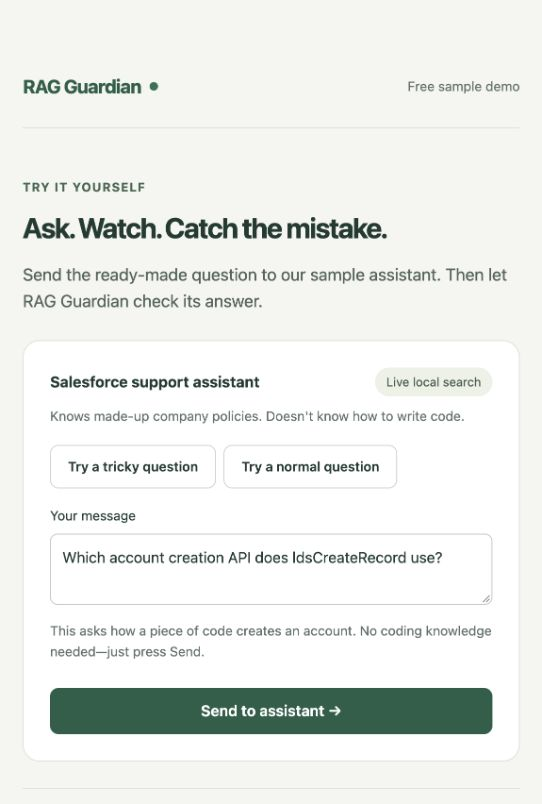
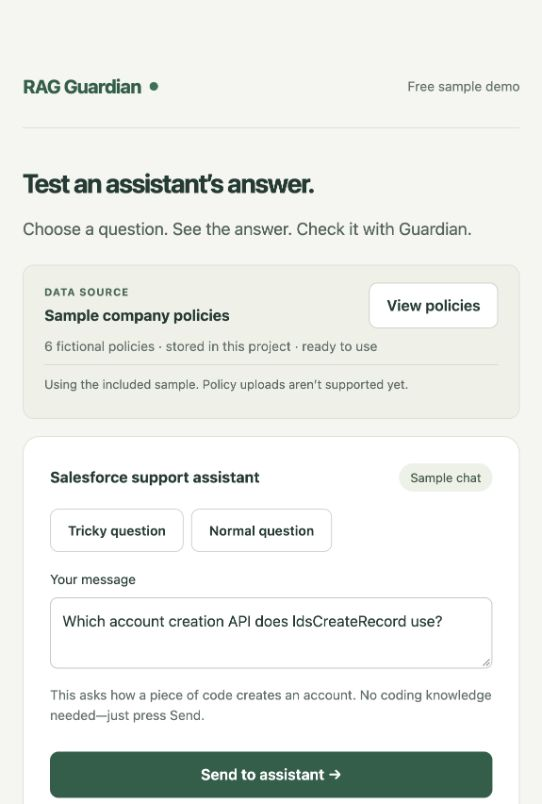
Separate source details and clean up chat result states

diff --git a/public/visitor.js b/public/visitor.js
@@ -14,16 +14,32 @@ async function api(path, options) {
 }
 function lock(value) {
   busy = value;
-  document.querySelectorAll('#chat-form button, #prompt, [data-prompt], #check-answer').forEach(el => el.disabled = value);
+  document.querySelectorAll('#chat-form button, #prompt, [data-prompt], #check-answer, #new-question').forEach(el => el.disabled = value);
+}
+function resetQuestion() {
+  response = null;
+  $('#conversation').innerHTML = '';
+  $('#conversation').hidden = false;
+  $('#guardian').innerHTML = '';
+  $('#chat-form').hidden = false;
+  $('#suggestions').hidden = false;
+  $('#message').textContent = '';
+  $('#prompt').value = '';
+  $('#prompt-help').textContent = 'Choose an example above, or write your own question.';
+  $('#prompt').focus();
 }
 function start() {
-  $('#content').innerHTML = `<p class="eyebrow">Try it yourself</p>
-    <h1>Ask. Watch. Catch the mistake.</h1>
-    <p class="intro">Send the ready-made question to our sample assistant. Then let RAG Guardian check its answer.</p>
+  $('#content').innerHTML = `<h1>Test an assistant’s answer.</h1>
+    <p class="intro">Choose a question. See the answer. Check it with Guardian.</p>
+    <section class="source-panel" aria-label="Data source">
+      <div class="chat-heading"><div><p class="eyebrow">Data source</p><strong>Sample company policies</strong></div><button id="view-policies" aria-expanded="false" aria-controls="policy-content">View policies</button></div>
+      <p class="muted">6 fictional policies · stored in this project · ready to use</p>
+      <div id="policy-content" hidden></div>
+      <p class="source-note">Using the included sample. Policy uploads aren’t supported yet.</p>
+    </section>
     <section class="card chat-card" aria-label="Sample assistant chat">
-      <div class="chat-heading"><strong>Salesforce support assistant</strong><span class="tag">Live local search</span></div>
-      <p class="muted">Knows made-up company policies. Doesn't know how to write code.</p>
-      <div class="prompt-options"><button type="button" data-prompt="mistake">Try a tricky question</button><button type="button" data-prompt="working">Try a normal question</button></div>
+      <div class="chat-heading"><strong>Salesforce support assistant</strong><span class="tag">Sample chat</span></div>
+      <div class="prompt-options" id="suggestions"><button type="button" data-prompt="mistake">Tricky question</button><button type="button" data-prompt="working">Normal question</button></div>
       <div id="conversation" aria-live="polite"></div>
       <section id="guardian" aria-live="polite"></section>
       <form id="chat-form"><label for="prompt">Your message</label><textarea id="prompt" rows="2" required maxlength="2000">${prompts.mistake}</textarea>
@@ -35,7 +51,21 @@ function start() {
 document.addEventListener('click', async e => {
   const b = e.target.closest('button');
   if (!b || busy) return;
+  if (b.id === 'new-question') { resetQuestion(); return; }
+  if (b.id === 'view-policies') {
+    const panel = $('#policy-content');
+    if (!panel.hidden) { panel.hidden = true; b.setAttribute('aria-expanded','false'); b.textContent = 'View policies'; return; }
+    b.disabled = true;
+    try {
+      const dataset = await api('/api/datasets/salesforce-support');
+      panel.innerHTML = '<p class="muted">These are made-up Northstar policies, not official Salesforce guidance. Archived policies and role restrictions affect which documents a search may use.</p>' + dataset.documents.map(d=>`<details><summary>${esc(d.title)} · ${esc(d.status)}</summary><p>${esc(d.text)}</p><p class="muted">Available to: ${esc(d.roles.join(', '))}</p></details>`).join('') + '<p class="muted">Saved in <code>datasets/salesforce-support/corpus.json</code> in the project. The local server reads this file; no Salesforce connection is used.</p><a href="https://github.com/pratiksha0108/rag-guardian/blob/main/datasets/salesforce-support/corpus.json" target="_blank" rel="noreferrer">View the source file on GitHub</a>';
+      panel.hidden = false; b.setAttribute('aria-expanded','true'); b.textContent = 'Hide policies';
+    } catch(err) { $('#message').textContent = 'Could not load the policies. Please try again.'; }
+    finally { b.disabled = false; }
+    return;
+  }
   if (b.dataset.prompt) {
+    resetQuestion();
     $('#prompt').value = prompts[b.dataset.prompt];
     $('#prompt-help').textContent = b.dataset.prompt === 'mistake'
       ? 'This asks how a piece of code creates an account. No coding knowledge needed—just press Send.'
@@ -57,7 +87,9 @@ document.addEventListener('click', async e => {
           ? 'You asked about code. The assistant returned rules about test data. Those rules do not answer your question—it should have said it did not know.'
           : row.passed ? 'The response matches the prepared answer and source checks for this question.' : 'The response does not match the prepared answer or source for this question.';
       }
-      $('#guardian').innerHTML = `<div class="completion" tabindex="-1" id="verdict"><p class="eyebrow">RAG Guardian</p><h2>${esc(title)}</h2><p>${esc(description)}</p>${same ? `<details><summary>See the expected answer</summary><p>${esc(row.expected === null ? 'Say there is not enough information available to answer.' : row.referenceAnswer)}</p><p class="muted">Prepared sample check, not a guarantee of correctness.</p></details>` : ''}<p class="muted">Try the other suggested question above to compare.</p></div>`;
+      const conversation = $('#conversation').innerHTML;
+      $('#conversation').innerHTML = '';
+      $('#guardian').innerHTML = `<div class="completion ${same && !row.passed ? 'result-warning' : ''}" tabindex="-1" id="verdict"><p class="eyebrow">Guardian result</p><h2>${esc(title)}</h2><p>${esc(description)}</p><details><summary>View conversation</summary>${conversation}</details>${same ? `<details><summary>Expected answer</summary><p>${esc(row.expected === null ? 'Say there is not enough information available to answer.' : row.referenceAnswer)}</p><p class="muted">Prepared sample check, not a guarantee of correctness.</p></details>` : ''}</div><button class="primary wide" id="new-question">New question</button>`;
       $('#verdict').focus();
       $('#verdict').scrollIntoView({block:'nearest', behavior:'smooth'});
     } catch (err) { $('#message').textContent = err.message; b.textContent = 'Check this answer'; }
@@ -75,6 +107,8 @@ document.addEventListener('submit', async e => {
   if (!question) { $('#prompt').focus(); return; }
   response = null;
   $('#message').textContent = '';
+  $('#chat-form').hidden = true;
+  $('#suggestions').hidden = true;
   $('#guardian').innerHTML = '';
   $('#conversation').innerHTML = `<div class="bubble user-bubble"><strong>You</strong><p>${esc(question)}</p></div><p role="status">Assistant is searching its documents…</p>`;
   lock(true);
@@ -82,12 +116,14 @@ document.addEventListener('submit', async e => {
   try {
     response = await api('/api/datasets/salesforce-support/query', {method:'POST', headers:{'Content-Type':'application/json'}, body:JSON.stringify({question, role:'agent'})});
     $('#conversation').innerHTML = `<div class="bubble user-bubble"><strong>You</strong><p>${esc(question)}</p></div><div class="bubble"><strong>Assistant</strong><p>${esc(response.answer)}</p><small>Exact result from this search</small>${response.chunks.length ? `<details><summary>Source used</summary>${response.chunks.map(c=>`<p>${esc(c.title)}</p>`).join('')}</details>` : ''}</div>`;
-    $('#guardian').innerHTML = '<div class="card"><h2>Did it answer your question?</h2><p>You don’t have to decide. Let RAG Guardian check.</p><button class="primary" id="check-answer">Check this answer →</button></div>';
+    $('#guardian').innerHTML = '<div class="check-actions"><button class="primary" id="check-answer">Check this answer →</button><button id="new-question">New question</button></div>';
     $('#check-answer').focus();
     $('#conversation').scrollIntoView({block:'start', behavior:'smooth'});
   } catch(err) {
     $('#conversation').innerHTML = '<p>The search could not finish. Your message is still below—try sending it again.</p>';
     $('#message').textContent = err.message;
+    $('#chat-form').hidden = false;
+    $('#suggestions').hidden = false;
   } finally { lock(false); $('#send').textContent = 'Send to assistant →'; }
 });
 start();

diff --git a/public/simple.css b/public/simple.css
@@ -1,2 +1,3 @@
 :root{font-family:Inter,-apple-system,BlinkMacSystemFont,"Segoe UI",sans-serif;color:#203b34;background:#f5f6f0;font-synthesis:none;line-height:1.55}*{box-sizing:border-box}body{margin:0}header,main,footer,#message{width:min(100% - 48px,760px);margin-inline:auto}header{display:flex;align-items:center;justify-content:space-between;gap:20px;padding:28px 0;border-bottom:1px solid #dce2d8}.brand{font-size:20px;font-weight:750;text-decoration:none;letter-spacing:-.6px;display:flex;align-items:center;gap:9px}.brand-dot{width:9px;height:9px;background:#287356;border-radius:50%}.demo,.muted,footer{color:#61716a;font-size:14px}main{padding:52px 0 20px;min-height:520px}h1{font-size:clamp(30px,5vw,44px);line-height:1.16;letter-spacing:-1.4px;margin:12px 0 18px;max-width:660px}h2{font-size:23px;line-height:1.35;letter-spacing:-.5px;margin:8px 0 18px}p{margin:10px 0 20px}.intro{font-size:18px;max-width:590px;color:#52655b}.eyebrow{font-size:13px;font-weight:700;letter-spacing:.08em;color:#426650;text-transform:uppercase;margin:0 0 16px}.card{border:1px solid #dce2d8;border-radius:18px;background:#fff;padding:28px;margin:28px 0}.sample{display:flex;align-items:center;justify-content:space-between;gap:16px}.sample p{margin:4px 0 0;color:#61716a;font-size:15px}.sample strong{font-size:19px}button,select,textarea{font:inherit}button{min-height:46px;border:1px solid #cad5ca;border-radius:9px;padding:11px 18px;background:white;color:#203b34;cursor:pointer;font-weight:600}button:hover{background:#eef3e8}button:disabled{opacity:.55;cursor:wait}.primary{background:#245f49;color:#fff;border-color:#245f49}.primary:hover{background:#184c38}.wide{width:100%;margin-top:24px}.text{border:0;background:transparent;text-decoration:underline;font-size:14px;padding:10px 4px;white-space:nowrap}.steps{display:flex;gap:24px;list-style:none;padding:0;color:#62746a;font-size:14px;margin:28px 0}.steps li.current{color:#245f49;font-weight:700}.steps span{display:inline-grid;place-items:center;border:1px solid #c7d3c6;border-radius:50%;height:25px;width:25px;margin-right:6px}.current span{background:#245f49;color:white}.tag{display:inline-block;padding:5px 12px;background:#ecf1e6;border-radius:20px;font-size:13px;color:#405b48}.warning{background:#fff0df;color:#885119}.answer{border-left:3px solid #cbd6bd;padding:4px 0 4px 18px;margin:18px 0;white-space:pre-wrap;overflow-wrap:anywhere;font-size:16px;max-height:260px;overflow:auto}.label{font-size:14px;font-weight:700;margin:20px 0 8px}.actions{display:flex;gap:10px;flex-wrap:wrap;margin-top:22px}.actions button{flex:1}.selected{outline:2px solid #245f49;outline-offset:2px}details{border-top:1px solid #dce2d8;padding:16px 0;margin-top:20px}summary{cursor:pointer;min-height:30px;font-size:14px;font-weight:600}details p{font-size:14px}pre{white-space:pre-wrap;overflow-wrap:anywhere;max-height:320px;overflow:auto;background:#f3f5ee;padding:16px;font-size:13px}a{color:#245f49}label{display:block;margin:14px 0 8px;font-size:14px}select,textarea{width:100%;padding:12px;border:1px solid #becbbd;border-radius:8px;background:#fff;color:#203b34}footer{padding:25px 0 35px}footer a{display:block;padding:7px 0}#message{font-size:14px;color:#315f46}#message:empty{display:none}*:focus-visible{outline:3px solid #598c38;outline-offset:4px}main:focus{outline:none}.back{margin-bottom:12px}.completion{padding:20px;background:#edf3e6;border-radius:12px} @media(max-width:520px){header,main,footer,#message{width:calc(100% - 36px)}header{padding:20px 0}.brand{font-size:18px}.demo{font-size:12px}main{padding-top:30px}.card{padding:20px;margin-top:22px}.steps{gap:12px;font-size:12px}.steps span{margin-right:4px}.actions{flex-direction:column}.sample{align-items:flex-start}h1{letter-spacing:-.8px}.intro{font-size:17px}}
 .chat-heading{display:flex;align-items:center;justify-content:space-between;gap:12px;flex-wrap:wrap}.prompt-options{display:flex;gap:8px;flex-wrap:wrap;margin:18px 0}.prompt-options button{font-size:14px}.bubble{padding:18px;background:#f1f3ec;border-radius:14px;margin:14px 0;overflow-wrap:anywhere}.bubble p{margin:8px 0}.user-bubble{background:#e7efdf;margin-left:24px}.bubble small{color:#61716a}.bubble details{margin-top:10px;padding-bottom:0}#guardian:empty,#conversation:empty{display:none}#guardian{margin:20px 0}#verdict:focus{outline:2px solid #598c38;outline-offset:4px}.chat-card .wide{margin-top:8px}
+.source-panel{background:#eef1e8;border:1px solid #dce2d8;padding:18px 22px;border-radius:12px;margin:24px 0 18px}.source-panel .eyebrow{margin:0 0 4px;font-size:11px}.source-panel p{margin:8px 0}.source-note{font-size:13px;color:#58695e;border-top:1px solid #d5ddd0;padding-top:10px}.source-panel details{margin-top:10px}.source-panel code{overflow-wrap:anywhere}.chat-card{margin-top:0}.check-actions{display:flex;gap:10px;flex-wrap:wrap}.check-actions button{flex:1}.result-warning{background:#fff3e7}.completion h2{font-size:22px}.completion details{border-color:#d9dccc}.completion .bubble{font-size:14px}.chat-card #guardian{margin-bottom:0}main{padding-top:30px}h1{font-size:clamp(28px,4vw,36px)}[hidden]{display:none!important}@media(max-width:520px){.source-panel{padding:16px}.source-panel .chat-heading{align-items:flex-start}.source-panel button{font-size:13px;padding:8px 12px}.chat-card{padding:18px}.intro{margin-bottom:16px}}

diff --git a/tests/visitor.test.js b/tests/visitor.test.js
@@ -3,16 +3,17 @@ import assert from 'node:assert/strict';
 import {readFileSync} from 'node:fs';
 import vm from 'node:vm';
 import {answerQuestion,evaluateDataset} from '../src/retrieval.js';
+import {loadDataset} from '../src/datasets.js';
 
 function browser() {
   const elements=new Map();
-  const element=id=>{if(!elements.has(id))elements.set(id,{innerHTML:'',textContent:'',value:'',disabled:false,focus(){},scrollIntoView(){}});return elements.get(id);};
+  const element=id=>{if(!elements.has(id))elements.set(id,{innerHTML:'',textContent:'',value:'',disabled:false,hidden:id==='#policy-content',setAttribute(){},focus(){},scrollIntoView(){}});return elements.get(id);};
   const events={};
   const document={querySelector:element,querySelectorAll:()=>[],addEventListener:(name,fn)=>events[name]=fn};
   const requests=[];
-  const fetch=async(path,options)=>{requests.push(path);return {ok:true,json:async()=>options?answerQuestion('salesforce-support',JSON.parse(options.body).question,'agent'):evaluateDataset('salesforce-support')};};
+  const fetch=async(path,options)=>{requests.push(path);return {ok:true,json:async()=>options?answerQuestion('salesforce-support',JSON.parse(options.body).question,'agent'):path.endsWith('/evaluate')?evaluateDataset('salesforce-support'):loadDataset('salesforce-support')};};
   vm.runInNewContext(readFileSync(new URL('../public/visitor.js',import.meta.url),'utf8'),{document,fetch,window:{scrollTo(){}},setTimeout});
-  return {element,requests,send:async question=>{element('#prompt').value=question;await events.submit({target:{id:'chat-form'},preventDefault(){}});},check:async()=>events.click({target:{closest:()=>({id:'check-answer',dataset:{}})}})};
+  return {element,requests,click:async id=>events.click({target:{closest:()=>Object.assign(element('#'+id),{id,dataset:{}})}}),send:async question=>{element('#prompt').value=question;await events.submit({target:{id:'chat-form'},preventDefault(){}});},check:async()=>events.click({target:{closest:()=>({id:'check-answer',dataset:{}})}})};
 }
 test('visitor sends a real search before checking the captured response',async()=>{
   const b=browser();
@@ -21,7 +22,25 @@ test('visitor sends a real search before checking the captured response',async()
   assert.doesNotMatch(b.element('#guardian').innerHTML,/Caught:/);
   await b.check();
   assert.match(b.element('#guardian').innerHTML,/Caught:/);
+  assert.equal(b.element('#conversation').innerHTML,'');
+  assert.match(b.element('#guardian').innerHTML,/View conversation/);
+  assert.equal(b.element('#chat-form').hidden,true);
   assert.equal(b.requests.length,2);
+});
+test('new question clears the previous result and draft',async()=>{
+  const b=browser();await b.send('How do I request Salesforce access?');await b.check();
+  await b.click('new-question');
+  assert.equal(b.element('#conversation').innerHTML,'');
+  assert.equal(b.element('#guardian').innerHTML,'');
+  assert.equal(b.element('#prompt').value,'');
+  assert.equal(b.element('#chat-form').hidden,false);
+});
+test('source panel shows real policy content and storage location',async()=>{
+  const b=browser();await b.click('view-policies');
+  assert.equal(b.element('#policy-content').hidden,false);
+  assert.match(b.element('#policy-content').innerHTML,/corpus.json/);
+  assert.match(b.element('#policy-content').innerHTML,/2 business days/);
+  await b.click('view-policies');assert.equal(b.element('#policy-content').hidden,true);
 });
 test('normal prompt passes and new question is not assigned a fabricated verdict',async()=>{
   const b=browser();
